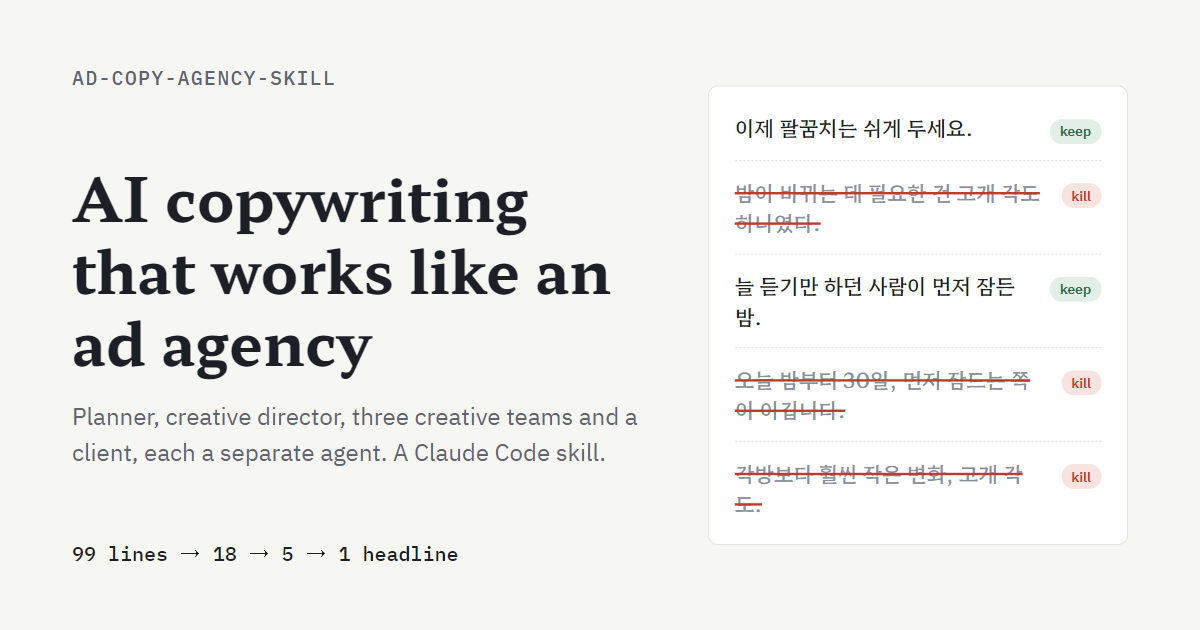
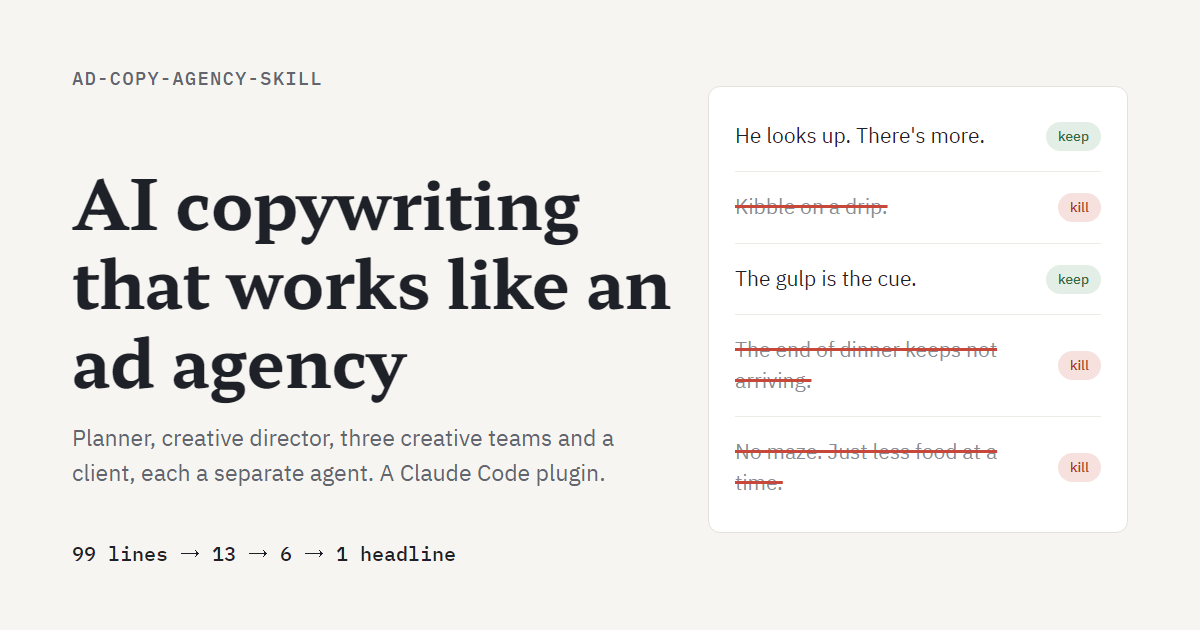
영어판·한국어판 분리: 영어 README와 사이트에서 한글 제거, 이미지 언어별로
- README.md, docs/index.html, llms.txt: 영어 입력 이름·값, 예시·CD 판정·줄 수는 영어 시험 실행(SlowBowl)에서
- 미리보기 이미지 docs/og.png(영어), docs/ko/og.png(한국어), 한국어 쪽 og:image 교체
- README.ko.md: 언어 표기, 한국어 이미지
- SKILL.md: 영어 입력 이름·값을 받아 01에 한국어 정본으로 옮김

diff --git a/docs/index.html b/docs/index.html
@@ -16,7 +16,7 @@
 <meta property="og:url" content="https://5hyuns.github.io/ad-copy-agency-skill/">
 <meta property="og:image" content="https://5hyuns.github.io/ad-copy-agency-skill/og.png">
 <meta name="twitter:card" content="summary_large_image">
-<script type="application/ld+json">{"@context": "https://schema.org", "@type": "SoftwareSourceCode", "name": "ad-copy-agency-skill (copy-masters)", "description": "Open-source Claude Code skill for AI ad copywriting. Planner, creative director, three creative teams and client review run as separate agents, following a real ad agency workflow to write and fact-check headlines.", "codeRepository": "https://github.com/5hyuns/ad-copy-agency-skill", "url": "https://5hyuns.github.io/ad-copy-agency-skill/", "programmingLanguage": ["Markdown", "Python"], "runtimePlatform": "Claude Code", "license": "https://opensource.org/licenses/MIT", "inLanguage": ["en", "ko"], "keywords": "AI copywriting, ad copy generator, headline generator, Claude Code skill, Claude skills, multi-agent, advertising agency workflow, creative brief, copywriting AI, 광고 카피, 카피라이팅", "author": {"@type": "Person", "name": "5hyuns", "url": "https://github.com/5hyuns"}}</script>
+<script type="application/ld+json">{"@context": "https://schema.org", "@type": "SoftwareSourceCode", "name": "ad-copy-agency-skill (copy-masters)", "description": "Open-source Claude Code skill for AI ad copywriting. Planner, creative director, three creative teams and client review run as separate agents, following a real ad agency workflow to write and fact-check headlines.", "codeRepository": "https://github.com/5hyuns/ad-copy-agency-skill", "url": "https://5hyuns.github.io/ad-copy-agency-skill/", "programmingLanguage": ["Markdown", "Python"], "runtimePlatform": "Claude Code", "license": "https://opensource.org/licenses/MIT", "inLanguage": ["en", "ko"], "keywords": "AI copywriting, ad copy generator, headline generator, Claude Code skill, Claude skills, multi-agent, advertising agency workflow, creative brief, copywriting AI", "author": {"@type": "Person", "name": "5hyuns", "url": "https://github.com/5hyuns"}}</script>
 <link rel="preconnect" href="https://fonts.googleapis.com">
 <link rel="preconnect" href="https://fonts.gstatic.com" crossorigin>
 <link rel="stylesheet" href="https://fonts.googleapis.com/css2?family=Hahmlet:wght@500;700&family=IBM+Plex+Sans+KR:wght@400;500;600&family=IBM+Plex+Mono:wght@400;500&display=swap">
@@ -120,14 +120,14 @@ footer { font-size: .8rem; color: var(--muted); border-top: 1px solid var(--line
     <pre id="inst">/plugin install copy-masters@ad-copy-agency-skill</pre>
     <button type="button" data-copy="inst">Copy</button>
   </div>
-  <div class="funnel" aria-label="Line counts in the demo run">
+  <div class="funnel" aria-label="Line counts in the English run">
     <div class="frow"><span>3 teams, round 1</span><div class="bar" style="width:100%"></div><span class="n">99</span></div>
-    <div class="frow"><span>CD round 1 keeps</span><div class="bar" style="width:18.2%"></div><span class="n">18</span></div>
-    <div class="frow"><span>CD round 2 pool</span><div class="bar" style="width:56.6%"></div><span class="n">56</span></div>
-    <div class="frow"><span>CD shortlist</span><div class="bar" style="width:5.1%"></div><span class="n">5</span></div>
+    <div class="frow"><span>CD round 1 keeps</span><div class="bar" style="width:13.1%"></div><span class="n">13</span></div>
+    <div class="frow"><span>CD round 2 pool</span><div class="bar" style="width:58.6%"></div><span class="n">58</span></div>
+    <div class="frow"><span>CD shortlist</span><div class="bar" style="width:6.1%"></div><span class="n">6</span></div>
     <div class="frow"><span>Client's final</span><div class="bar" style="width:1%"></div><span class="n">1</span></div>
   </div>
-  <p class="muted" style="font-size:.85rem">Line counts from one demo run on a fictional smart pillow. The round 2 pool adds 33 rewritten lines, 3 defended lines and 2 approved customer quotes to the 18 survivors. It writes Korean copy for the Korean market and English copy for the US market.</p>
+  <p class="muted" style="font-size:.85rem">Line counts from one English run on a fictional US smart dog bowl. The round 2 pool adds rewritten lines, defended lines and approved customer quotes to the 13 survivors. It writes English copy for the US market and Korean copy for the Korean market.</p>
 </header>
 
 <section class="stack" aria-labelledby="flow">
@@ -151,13 +151,13 @@ footer { font-size: .8rem; color: var(--muted); border-top: 1px solid var(--line
 <section class="stack" aria-labelledby="pen">
   <span class="eyebrow">FROM CD ROUND 1</span>
   <h2 id="pen">Every line gets a verdict and a reason</h2>
-  <p>Real verdicts from the demo run, with English glosses. The CD does not pick by taste or by counting pros and cons; it checks each line against criteria written down before reading. Length is never a reason.</p>
+  <p>Real verdicts from the English run. The CD does not pick by taste or by counting pros and cons; it checks each line against criteria written down before reading. Length is never a reason.</p>
   <div class="sheet">
-    <div class="ln keep"><span class="t" lang="ko">다음 코골이까지 몇 초 남았는지 세고 있는 당신에게.</span><span class="mark">keep</span><span class="r">"To you, counting the seconds to the next snore." Sees the partner as the one listening all night.</span></div>
-    <div class="ln keep"><span class="t" lang="ko">이제 팔꿈치는 쉬게 두세요.</span><span class="mark">keep</span><span class="r">"Let your elbow rest now." Names the nightly nudging the partner does.</span></div>
-    <div class="ln cut"><span class="t" lang="ko">밤이 바뀌는 데 필요한 건 고개 각도 하나였다.</span><span class="mark">kill</span><span class="r">"All the night needed was one head angle." The mechanism is the hero; sounds like competitors' tech talk.</span></div>
-    <div class="ln cut"><span class="t" lang="ko">그 사람 습관은 못 고쳐도, 고개 각도는 바뀝니다.</span><span class="mark">kill</span><span class="r">"You can't fix their habit, but the angle can change." Blames the snorer.</span></div>
-    <div class="ln cut"><span class="t" lang="ko">오늘 밤부터 30일, 먼저 잠드는 쪽이 이깁니다.</span><span class="mark">kill</span><span class="r">"30 days from tonight: whoever falls asleep first wins." Pits the couple against each other.</span></div>
+    <div class="ln keep"><span class="t">He looks up. There's more.</span><span class="mark">keep</span><span class="r">A scene only this product can produce: the fast eater looks up at a bowl he thinks is finished and finds more.</span></div>
+    <div class="ln keep"><span class="t">The gulp is the cue.</span><span class="mark">keep</span><span class="r">Turns the problem into the switch, from the dog's side.</span></div>
+    <div class="ln cut"><span class="t">Kibble on a drip.</span><span class="mark">kill</span><span class="r">"Drip" reads as medical.</span></div>
+    <div class="ln cut"><span class="t">The end of dinner keeps not arriving.</span><span class="mark">kill</span><span class="r">Reads as a meal that never ends.</span></div>
+    <div class="ln cut"><span class="t">You can stop doling out dinner by the handful.</span><span class="mark">kill</span><span class="r">Owners portioning by hand is not in the material.</span></div>
   </div>
 </section>
 
@@ -181,52 +181,52 @@ footer { font-size: .8rem; color: var(--muted); border-top: 1px solid var(--line
 <section class="stack" id="usage" aria-labelledby="h-usage">
   <span class="eyebrow">USAGE</span>
   <h2 id="h-usage">Tell it what, for whom, and where it runs</h2>
-  <p>Call it with the slash command or just ask for ad copy or headlines. If a required input is missing it asks first; it never guesses the mode, channel or target. Field names are Korean and values can be in any language. Add <code>카피 언어 (copy language): en</code> for English copy; the market then defaults to <code>us</code>, so the client checks against US channel specs and FTC rules.</p>
-  <pre class="block">/copy-masters
-주제 (subject): a smart pillow that tilts your head when it hears snoring
-사업 목표 (business goal): more 30-day trial orders from Instagram ads
-타깃 (target): people in their 30s-50s who sleep apart because a partner snores
-모드 (mode): 퍼포먼스 (performance)
-채널 (channel): SNS 피드 (social feed)
-브랜드명 (brand): Nuumlab
-필수 사항 (must-haves): not a medical device
-사용자 자료 (your material): ./material.md
-카피 언어 (copy language): en</pre>
+  <p>Call it with the slash command or just ask for ad copy or headlines. If a required input is missing it asks first; it never guesses the mode, channel or target. Set <code>Copy language: en</code> for English copy (the default is Korean); the market then defaults to <code>us</code>, so the client checks against US channel specs and FTC rules.</p>
+  <pre class="block">/copy-masters:copy-masters
+Subject: SlowBowl, a smart dog bowl that releases kibble in small portions when it notices a dog gulping
+Business goal: more first orders from Instagram ads
+Target: US dog owners, 25 to 45, whose dog eats too fast
+Mode: performance
+Channel: social feed
+Brand: Tumbleweed Pets
+Must-haves: not a veterinary medical device; no health claims
+Your material: ./material.md
+Copy language: en</pre>
   <div class="tbl"><table>
     <thead><tr><th>Input</th><th>Required</th><th>Value</th></tr></thead>
     <tbody>
-      <tr><td>주제 subject</td><td>yes</td><td>What is being advertised</td></tr>
-      <tr><td>사업 목표 business goal</td><td>yes</td><td>One short line</td></tr>
-      <tr><td>타깃 target</td><td>yes</td><td>Who the ad speaks to</td></tr>
-      <tr><td>모드 mode</td><td>yes</td><td><code>퍼포먼스</code> performance (clicks, conversions) or <code>브랜드</code> brand (memory, attitude)</td></tr>
-      <tr><td>채널 channel</td><td>yes</td><td><code>SNS 피드</code> social feed, <code>검색광고</code> search ads, <code>상세·랜딩페이지</code> product or landing page, <code>영상 스크립트</code> video script</td></tr>
-      <tr><td>브랜드명 brand</td><td>yes</td><td>Names the output folder and learning log</td></tr>
-      <tr><td>제품 진실 product truth</td><td>no</td><td>What the company itself says is the core of the product</td></tr>
-      <tr><td>필수 사항 must-haves</td><td>no</td><td>What must or must not appear, tone rules</td></tr>
-      <tr><td>업종 industry</td><td>no</td><td>Adds industry-specific regulation checks</td></tr>
-      <tr><td>사용자 자료 your material</td><td>no</td><td>Decks, reviews, interviews. Approved customer quotes reach the shortlist verbatim</td></tr>
-      <tr><td>카피 언어 copy language</td><td>no</td><td><code>ko</code> (default) or <code>en</code></td></tr>
-      <tr><td>시장 market</td><td>no</td><td><code>kr</code> or <code>us</code>: whose channel specs and ad law the client checks against</td></tr>
+      <tr><td>Subject</td><td>yes</td><td>What is being advertised</td></tr>
+      <tr><td>Business goal</td><td>yes</td><td>One short line</td></tr>
+      <tr><td>Target</td><td>yes</td><td>Who the ad speaks to</td></tr>
+      <tr><td>Mode</td><td>yes</td><td><code>performance</code> (clicks, conversions) or <code>brand</code> (memory, attitude)</td></tr>
+      <tr><td>Channel</td><td>yes</td><td><code>social feed</code>, <code>search ads</code>, <code>landing page</code> or <code>video script</code></td></tr>
+      <tr><td>Brand</td><td>yes</td><td>Names the output folder and learning log</td></tr>
+      <tr><td>Product truth</td><td>no</td><td>What the company itself says is the core of the product</td></tr>
+      <tr><td>Must-haves</td><td>no</td><td>What must or must not appear, tone rules</td></tr>
+      <tr><td>Industry</td><td>no</td><td>Adds industry-specific regulation checks</td></tr>
+      <tr><td>Your material</td><td>no</td><td>Decks, reviews, interviews. Approved customer quotes reach the shortlist verbatim</td></tr>
+      <tr><td>Copy language</td><td>no</td><td><code>en</code> for English copy; Korean if not set</td></tr>
+      <tr><td>Market</td><td>no</td><td><code>us</code> or <code>kr</code>: whose channel specs and ad law the client checks against. Follows the copy language if not set</td></tr>
     </tbody>
   </table></div>
   <h3>Output</h3>
   <p>One file per step under <code>copy-runs/&lt;brand&gt;/&lt;date&gt;-&lt;topic&gt;/</code> in your working directory. At the end you get the final line and two alternates, the planner's reframe, line counts per step, any lines the fact check caught, and the facts the client still needs to confirm.</p>
   <h3>Time and cost</h3>
-  <p>The demo run used 13 sub-agents and took about 20 minutes, about 1.04M sub-agent tokens in total. It suits work where you want to follow the process or where fact checking matters more than speed.</p>
+  <p>The Korean demo run used 13 sub-agents and took about 20 minutes, about 1.04M sub-agent tokens in total. It suits work where you want to follow the process or where fact checking matters more than speed.</p>
 </section>
 
 <section class="stack" id="demo" aria-labelledby="h-demo">
   <span class="eyebrow">DEMO</span>
-  <h2 id="h-demo">One full run on a fictional smart pillow</h2>
+  <h2 id="h-demo">One full run on a fictional smart dog bowl</h2>
   <div class="demo">
     <div class="stack">
       <span class="eyebrow">CLIENT'S FINAL</span>
-      <span class="q" lang="ko">“남편이 처음으로 제가 먼저 잠들었대요”</span>
-      <span class="muted" style="font-size:.85rem">"My husband says that for the first time, I fell asleep first." An approved customer quote, used verbatim.</span>
+      <span class="q">“Two of you listening at dinner. Only one of you can hold the kibble back.”</span>
+      <span class="muted" style="font-size:.85rem">Alternates: "He can't inhale what isn't in the bowl yet." and "He doesn't have to change. The bowl does."</span>
     </div>
     <div class="stack">
-      <p style="font-size:.93rem">The planner moved the audience from the snorer to the partner lying awake next to them. The CD sent the first brief back once. All 99 lines from 15 routes are listed with the CD's verdicts and reasons.</p>
-      <a class="btn" href="demo/">Open the demo record (Korean)</a>
+      <p style="font-size:.93rem">The planner changed the kind of problem: owners already know to slow their dog down, and every bowl they know does it with an obstacle in a full bowl. The evidence was one review from an owner still listening for chewing at dinner. The CD sent the first brief back once. Three teams wrote 99 lines from 15 routes. A full line-by-line record exists for a Korean run.</p>
+      <a class="btn" href="demo/">Open the Korean run record</a>
     </div>
   </div>
 </section>

diff --git a/docs/demo/index.html b/docs/demo/index.html
@@ -6,7 +6,7 @@
 <title>고요베개 카피 실행 · ad-copy-agency-skill demo</title>
 <meta name="description" content="Demo run of ad-copy-agency-skill: 99 Korean ad headlines for a fictional smart pillow, judged by an AI creative director and client. 가상 제품 고요베개로 돌린 카피 스킬 시연 기록.">
 <link rel="canonical" href="https://5hyuns.github.io/ad-copy-agency-skill/demo/">
-<meta property="og:image" content="https://5hyuns.github.io/ad-copy-agency-skill/og.png">
+<meta property="og:image" content="https://5hyuns.github.io/ad-copy-agency-skill/ko/og.png">
 <link rel="preconnect" href="https://fonts.googleapis.com">
 <link rel="preconnect" href="https://fonts.gstatic.com" crossorigin>
 <link rel="stylesheet" href="https://fonts.googleapis.com/css2?family=Hahmlet:wght@500;700&family=IBM+Plex+Sans+KR:wght@400;500;600&display=swap">

diff --git a/docs/ko/index.html b/docs/ko/index.html
@@ -12,7 +12,7 @@
 <meta property="og:title" content="ad-copy-agency-skill · 광고 대행사 흐름을 따르는 카피라이팅 스킬">
 <meta property="og:description" content="플래너, CD, 크리에이티브 팀 셋, 광고주. 역할별 AI 에이전트가 대행사 순서대로 헤드라인을 쓰는 Claude Code 스킬.">
 <meta property="og:url" content="https://5hyuns.github.io/ad-copy-agency-skill/ko/">
-<meta property="og:image" content="https://5hyuns.github.io/ad-copy-agency-skill/og.png">
+<meta property="og:image" content="https://5hyuns.github.io/ad-copy-agency-skill/ko/og.png">
 <meta property="og:locale" content="ko_KR">
 <meta name="twitter:card" content="summary_large_image">
 

diff --git a/README.md b/README.md
@@ -1,14 +1,14 @@
 # ad-copy-agency-skill: AI copywriting that works like an ad agency
 
-**Language**: English | [한국어](README.ko.md) · **Site**: https://5hyuns.github.io/ad-copy-agency-skill/ · **Demo**: https://5hyuns.github.io/ad-copy-agency-skill/demo/
+**Language**: English | [한국어](README.ko.md) · **Site**: https://5hyuns.github.io/ad-copy-agency-skill/
 
-An open-source [Claude Code](https://claude.com/claude-code) skill for AI ad copywriting. It writes advertising headlines by running a real ad agency workflow with one AI agent per role: planner, creative director, three creative teams and the client. The skill is named `copy-masters`.
+An open-source [Claude Code](https://claude.com/claude-code) plugin for AI ad copywriting. It writes advertising headlines by running a real ad agency workflow with one AI agent per role: planner, creative director, three creative teams and the client. The skill is named `copy-masters`.
 
 Ads are rarely one person writing one good sentence. A planner reframes the brief, a creative director reviews it, several teams write a lot of lines, the CD cuts them down more than once, and the client picks. The skill follows that order. Each role is a separate agent that sees only the files the previous step left behind, teams never pick their own lines, and the CD judges lines with team names hidden. At the end you get a final headline, two alternates, the path each line took, and a table checking that every step ran as the agency workflow expects.
 
-> **There is no evidence that it beats a single well-written prompt.** Read [Limits](#limits) first. It writes Korean copy for the Korean market and English copy for the US market.
+> **There is no evidence that it beats a single well-written prompt.** Read [Limits](#limits) first. It writes English copy for the US market and Korean copy for the Korean market.
 
-![CD review sheet: lines kept and killed](docs/og.png)
+![CD review sheet from an English run: lines kept and killed](docs/og.png)
 
 ## Quick start
 
@@ -34,19 +34,19 @@ git clone https://github.com/5hyuns/ad-copy-agency-skill.git "$HOME\.claude\skil
 git clone https://github.com/5hyuns/ad-copy-agency-skill.git .claude/skills/copy-masters
 ```
 
-Call it like this (plugin install: `/copy-masters:copy-masters`). Add `카피 언어 (copy language): en` for English copy; the market then defaults to `us`. Field names are Korean; values can be in any language.
+Call it like this. Set `Copy language: en` for English copy, because the default is Korean. The market then defaults to `us`, so the client checks against US channel specs and FTC rules.
 
 ```
-/copy-masters
-주제 (subject): a smart pillow that tilts your head when it hears snoring
-사업 목표 (business goal): more 30-day trial orders from Instagram ads
-타깃 (target): people in their 30s-50s who sleep apart because a partner snores
-모드 (mode): 퍼포먼스 (performance)
-채널 (channel): SNS 피드 (social feed)
-브랜드명 (brand): Nuumlab
-필수 사항 (must-haves): not a medical device
-사용자 자료 (your material): ./material.md
-카피 언어 (copy language): en
+/copy-masters:copy-masters
+Subject: SlowBowl, a smart dog bowl that releases kibble in small portions when it notices a dog gulping
+Business goal: more first orders from Instagram ads
+Target: US dog owners, 25 to 45, whose dog eats too fast
+Mode: performance
+Channel: social feed
+Brand: Tumbleweed Pets
+Must-haves: not a veterinary medical device; no health claims
+Your material: ./material.md
+Copy language: en
 ```
 
 You can also just ask for ad copy or headlines in plain words. If a required input is missing, it asks before starting.
@@ -57,20 +57,20 @@ Requirements: Claude Code and Python 3 (the helper scripts use only the standard
 
 | Input | Required | Value |
 |---|---|---|
-| 주제 subject | yes | What is being advertised |
-| 사업 목표 business goal | yes | One short line, such as "more trial orders" |
-| 타깃 target | yes | Who the ad speaks to |
-| 모드 mode | yes | `퍼포먼스` performance (clicks, conversions) or `브랜드` brand (memory, attitude) |
-| 채널 channel | yes | `SNS 피드` social feed, `검색광고` search ads, `상세·랜딩페이지` product or landing page, `영상 스크립트` video script |
-| 브랜드명 brand | yes | Names the output folder and the learning log |
-| 제품 진실 product truth | no | What the company itself says is the core of the product |
-| 필수 사항 must-haves | no | What must or must not appear, tone rules |
-| 업종 industry | no | Adds industry-specific regulation checks |
-| 사용자 자료 your material | no | Decks, reviews, interviews. Approved customer quotes reach the shortlist verbatim |
-| 카피 언어 copy language | no | `ko` (default) or `en` |
-| 시장 market | no | `kr` or `us`: which country's channel specs and ad law the client checks against. Defaults to `kr` for Korean copy and `us` for English |
+| Subject | yes | What is being advertised |
+| Business goal | yes | One short line, such as "more trial orders" |
+| Target | yes | Who the ad speaks to |
+| Mode | yes | `performance` (clicks, conversions) or `brand` (memory, attitude) |
+| Channel | yes | `social feed`, `search ads`, `landing page` or `video script` |
+| Brand | yes | Names the output folder and the learning log |
+| Product truth | no | What the company itself says is the core of the product |
+| Must-haves | no | What must or must not appear, tone rules |
+| Industry | no | Adds industry-specific regulation checks |
+| Your material | no | Decks, reviews, interviews. Approved customer quotes reach the shortlist verbatim |
+| Copy language | no | `en` for English copy. Korean if not set |
+| Market | no | `us` or `kr`: which country's channel specs and ad law the client checks against. Follows the copy language if not set |
 
-It never guesses the mode, channel or target. Product numbers, conditions, reviews and certifications come only from the raw material or your files; anything unverified is flagged `[의뢰인 확인 필요]` (client to confirm).
+It never guesses the mode, channel or target. Product numbers, conditions, reviews and certifications come only from the raw material or your files; anything unverified is flagged `[client to confirm: …]`.
 
 ## Workflow
 
@@ -89,11 +89,15 @@ It never guesses the mode, channel or target. Product numbers, conditions, revie
 
 Outputs go to `copy-runs/<brand>/<date>-<topic>/` in your working directory. Running the same brand again surfaces lessons from `copy-runs/<brand>/learning-log.md` first.
 
-## Demo
+## Example run
 
-One full run on a fictional smart pillow. The planner moved the audience from the snorer to the partner lying awake next to them, the CD sent the first brief back once, three teams wrote 99 lines, and the client picked an approved customer quote, "남편이 처음으로 제가 먼저 잠들었대요" ("My husband says that for the first time, I fell asleep first"). Every line with the CD's verdict and reason is on the [demo page](https://5hyuns.github.io/ad-copy-agency-skill/demo/).
+One English run on a fictional US smart dog bowl, with the inputs shown above. The planner changed the kind of problem: owners already know to slow their dog down, and every bowl they know does it with an obstacle in a full bowl. The CD sent the first brief back once. Three teams wrote 99 lines, the CD kept 13, the round 2 pool had 58, the CD shortlisted 6, and the client picked:
 
-The run used 13 sub-agents, about 20 minutes and about 1.04M sub-agent tokens.
+> Two of you listening at dinner. Only one of you can hold the kibble back.
+
+Alternates: "He can't inhale what isn't in the bowl yet." and "He doesn't have to change. The bowl does."
+
+A full line-by-line record with every CD verdict and reason is published for a Korean run on a fictional smart pillow: [demo page (Korean)](https://5hyuns.github.io/ad-copy-agency-skill/demo/). That run used 13 sub-agents, about 20 minutes and about 1.04M sub-agent tokens.
 
 ## Limits
 
@@ -102,15 +106,16 @@ The run used 13 sub-agents, about 20 minutes and about 1.04M sub-agent tokens.
 - The CD and the client are the same model. Re-running the same pool can change the final line.
 - **English copy has been tested once.** On one fictional US product the English run worked end to end (all 46 process checks, every verdict parsed), but its three picks won 0.39 of blind comparisons against two single-prompt runs. The client's longest pick lost every pair while one of its alternates was the second strongest line. That number leans on one client pick: given the same shortlist nine more times, the client chose the 43-character alternate every time, and that line scored 0.67 against the single-prompt lines. Lines get longer at team rework (41.8 characters for round-1 survivors, 58.5 for rewrites), not at the CD's shortlist. The US regulation checklist did its job: the client dropped a customer quote under the FTC's typical-results rule (16 CFR 255.2).
 - It writes headlines only. Visuals, subheads and body copy are out of scope.
-- See "알려진 한계" (known limits) in [SKILL.md](SKILL.md) for the full list. Paths under `reports/`, `research_notes/` and `skill-tests/` cited there are design evidence kept outside this repository and are not needed to run the skill.
+- The full list of known limits is in [SKILL.md](SKILL.md), which is written in Korean. Paths under `reports/`, `research_notes/` and `skill-tests/` cited there are design evidence kept outside this repository and are not needed to run the skill.
 
 ## Repository layout
 
+- `.claude-plugin/`: plugin and marketplace manifests
 - `SKILL.md`: steps, principles and known limits
 - `templates/common/`: collection, planner and creative surgery prompts, shared by both languages
-- `templates/ko/`, `templates/en/`: team, CD and client prompts, written separately for each language rather than translated
+- `templates/en/`, `templates/ko/`: team, CD and client prompts, written separately for each language rather than translated
 - `scripts/`: `build_pool.py` moves and hides lines between roles, `assemble.py` builds the final report and process check
-- `references/kr/`, `references/us/`: channel specs and the fact and regulation checklist for each market (US: FTC Act Section 5, deception and substantiation statements, 16 CFR 255 and 465, FDA general wellness)
+- `references/us/`, `references/kr/`: channel specs and the fact and regulation checklist for each market (US: FTC Act Section 5, deception and substantiation statements, 16 CFR 255 and 465, FDA general wellness)
 - `docs/`: the project site and demo page (GitHub Pages)
 
 ## License
@@ -121,4 +126,4 @@ MIT. See [LICENSE](LICENSE).
 
 The name copy-masters comes from versions 1 to 4, which imitated the methods of famous copywriters (David Ogilvy, Bill Bernbach, Taniyama Masakazu, Jung Chul). Version 5 dropped that design and follows the agency workflow instead. The design draws on production records of 25 well-known campaigns and on Turnbull & Wheeler's research on London advertising agencies, where only two of 24 steps produced ideas and the rest were about agreeing on the problem and checking the work.
 
-Related keywords: AI copywriting, ad copy generator, headline generator, Claude skills, Claude Code skill, multi-agent workflow, creative brief, advertising agency, 광고 카피, 카피라이팅, 헤드라인.
+Related keywords: AI copywriting, ad copy generator, headline generator, Claude Code plugin, Claude skills, multi-agent workflow, creative brief, advertising agency.

diff --git a/SKILL.md b/SKILL.md
@@ -46,6 +46,8 @@ description: 광고 대행사의 작업 흐름(클라이언트 브리프 → 원
 
 필수 인자가 빠지면 먼저 묻는다. 모드·채널·타깃은 추측하지 않는다.
 
+인자는 영어 이름과 영어 값으로 와도 된다. 이름은 Subject(주제), Business goal(사업 목표), Target(타깃), Mode(모드), Channel(채널), Brand(브랜드명), Product truth(제품 진실), Must-haves(필수 사항), Industry(업종), Your material(사용자 자료), Copy language(카피 언어), Market(시장)이다. 값은 performance(퍼포먼스), brand(브랜드), social feed(SNS 피드), search ads(검색광고), landing page 또는 product page(상세·랜딩페이지), video script(영상 스크립트)로 받는다. 오케스트레이터는 `01-client-brief.md`에 한국어 정본 이름과 값으로 옮기고, 카피 언어가 en이면 아래 형식대로 영어를 괄호로 붙인다(`- 모드 (Mode): 퍼포먼스 (performance)`). 영어 이름으로 받았어도 카피 언어가 주어지지 않으면 기본값 ko를 따른다.
+
 ## 산출물 위치
 
 ```
@@ -95,7 +97,7 @@ copy-runs/<브랜드>/
 - 카피 언어: ko 또는 en
 - 시장: kr 또는 us
 ```
-카피 언어가 en이면 항목 이름 뒤에 영어 이름을 괄호로 붙이고 값은 받은 말 그대로 적는다(`- 주제 (Subject):`, `- 사업 목표 (Business goal):`, `- 타깃 (Target):`, `- 모드 (Mode):`, `- 채널 (Channel):`, `- 브랜드명 (Brand):`, `- 카피 언어 (Copy language): en`). 스크립트가 이 파일의 `카피 언어`를 읽어 다음 역할에게 넘기는 파일의 말을 정한다.
+카피 언어가 en이면 항목 이름 뒤에 영어 이름을 괄호로 붙이고 값은 받은 말 그대로 적는다. 모드와 채널만 한국어 정본 값 뒤에 영어를 괄호로 붙인다(`- 주제 (Subject):`, `- 사업 목표 (Business goal):`, `- 타깃 (Target):`, `- 모드 (Mode):`, `- 채널 (Channel):`, `- 브랜드명 (Brand):`, `- 카피 언어 (Copy language): en`). 스크립트가 이 파일의 `카피 언어`를 읽어 다음 역할에게 넘기는 파일의 말을 정한다.
 
 ### 2. 재료 모으기 → `02-raw.md` (`templates/common/collect-prompt.md`)
 수집 에이전트 하나. 시장이 kr이 아니면 템플릿 맨 아래 "다른 시장일 때"를, 카피 언어가 en이면 "영어로 쓸 때"를 붙이고, 해당하지 않는 절은 뺀다. 검색 상한 10회, 원문 수신 15건(임시 값). 사용자 자료가 있으면 그것부터 옮긴다.

diff --git a/README.ko.md b/README.ko.md
@@ -1,12 +1,14 @@
 # ad-copy-agency-skill
 
-**Language**: [English](README.md) | 한국어 · **소개 페이지**: https://5hyuns.github.io/ad-copy-agency-skill/ko/
+**언어**: [English](README.md) | 한국어 · **소개 페이지**: https://5hyuns.github.io/ad-copy-agency-skill/ko/
 
-광고 대행사의 작업 흐름을 역할별 에이전트로 따라가 헤드라인을 쓰는 Claude Code 스킬입니다. 스킬 이름은 `copy-masters`입니다.
+광고 대행사의 작업 흐름을 역할별 에이전트로 따라가 헤드라인을 쓰는 Claude Code 플러그인입니다. 스킬 이름은 `copy-masters`입니다.
 
 광고는 한 사람이 문장을 잘 써서 나오지 않습니다. 플래너가 받은 과제를 다시 정의하고, CD가 브리프를 심사하고, 여러 팀이 많이 써 오고, CD가 여러 번 쳐내고, 광고주가 고릅니다. 이 스킬은 그 순서를 따라갑니다. 역할마다 다른 에이전트가 맡고, 서로의 작업 과정은 보지 않고 앞 단계가 남긴 파일만 받습니다. 사람이 중간에 고르는 단계는 없고, 끝나면 결과와 함께 각 단계가 업계 흐름대로 돌았는지 점검한 표를 냅니다.
 
 > 단일 프롬프트보다 결과가 낫다는 근거는 없습니다. 아래 [한계](#한계)를 먼저 읽어 주세요.
+
+![CD 1차 판정표: 살린 줄과 죽인 줄](docs/ko/og.png)
 
 ## 빠른 시작
 
